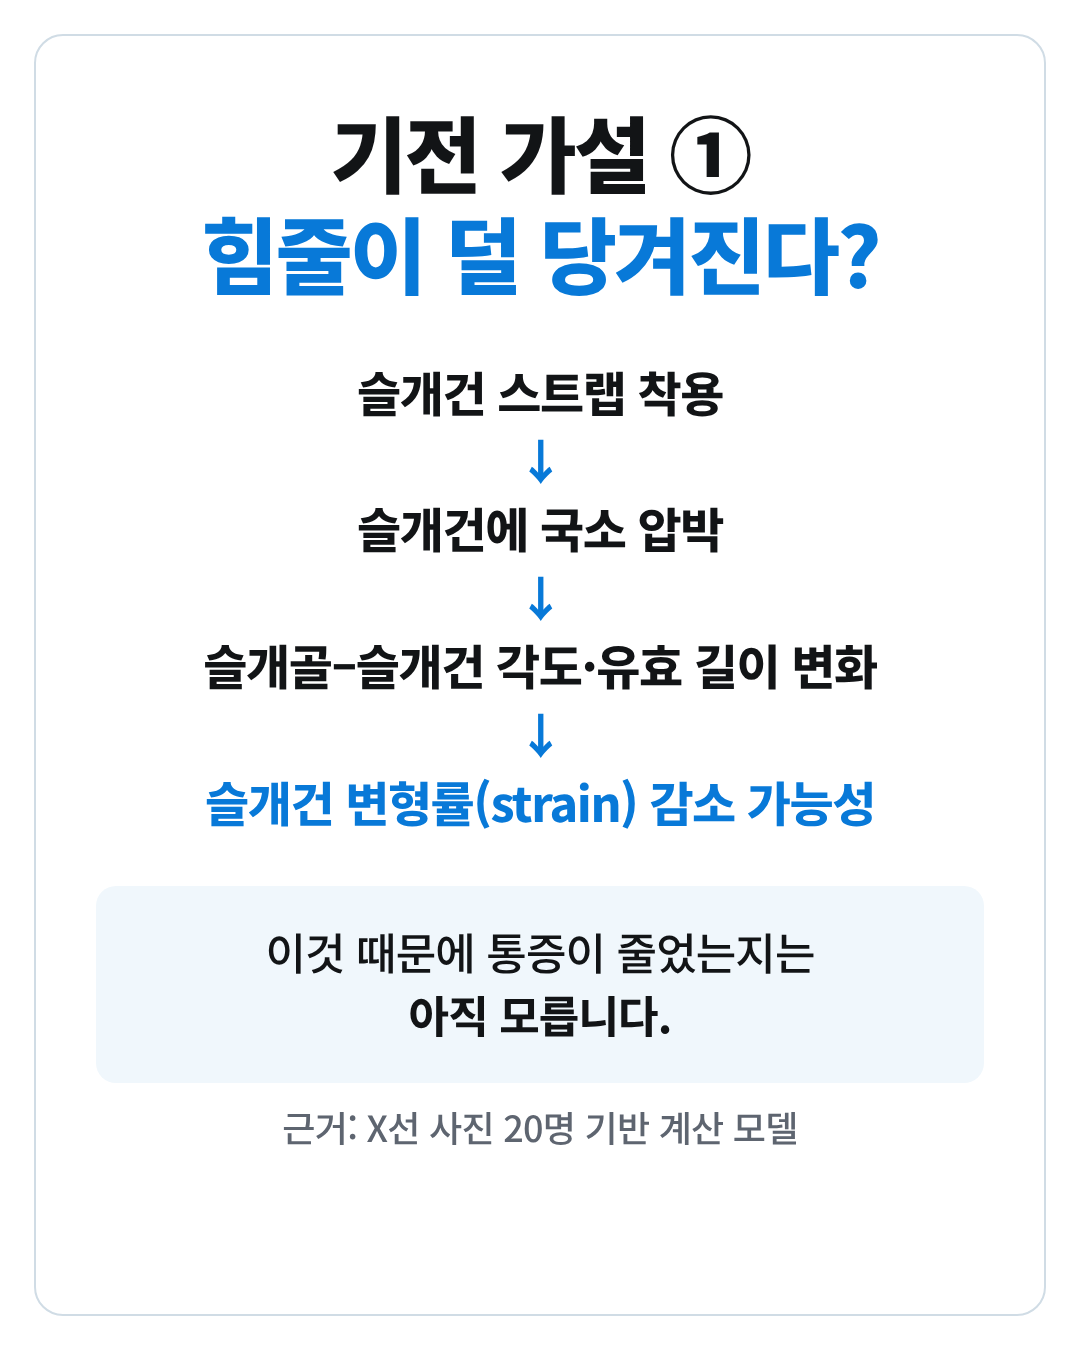
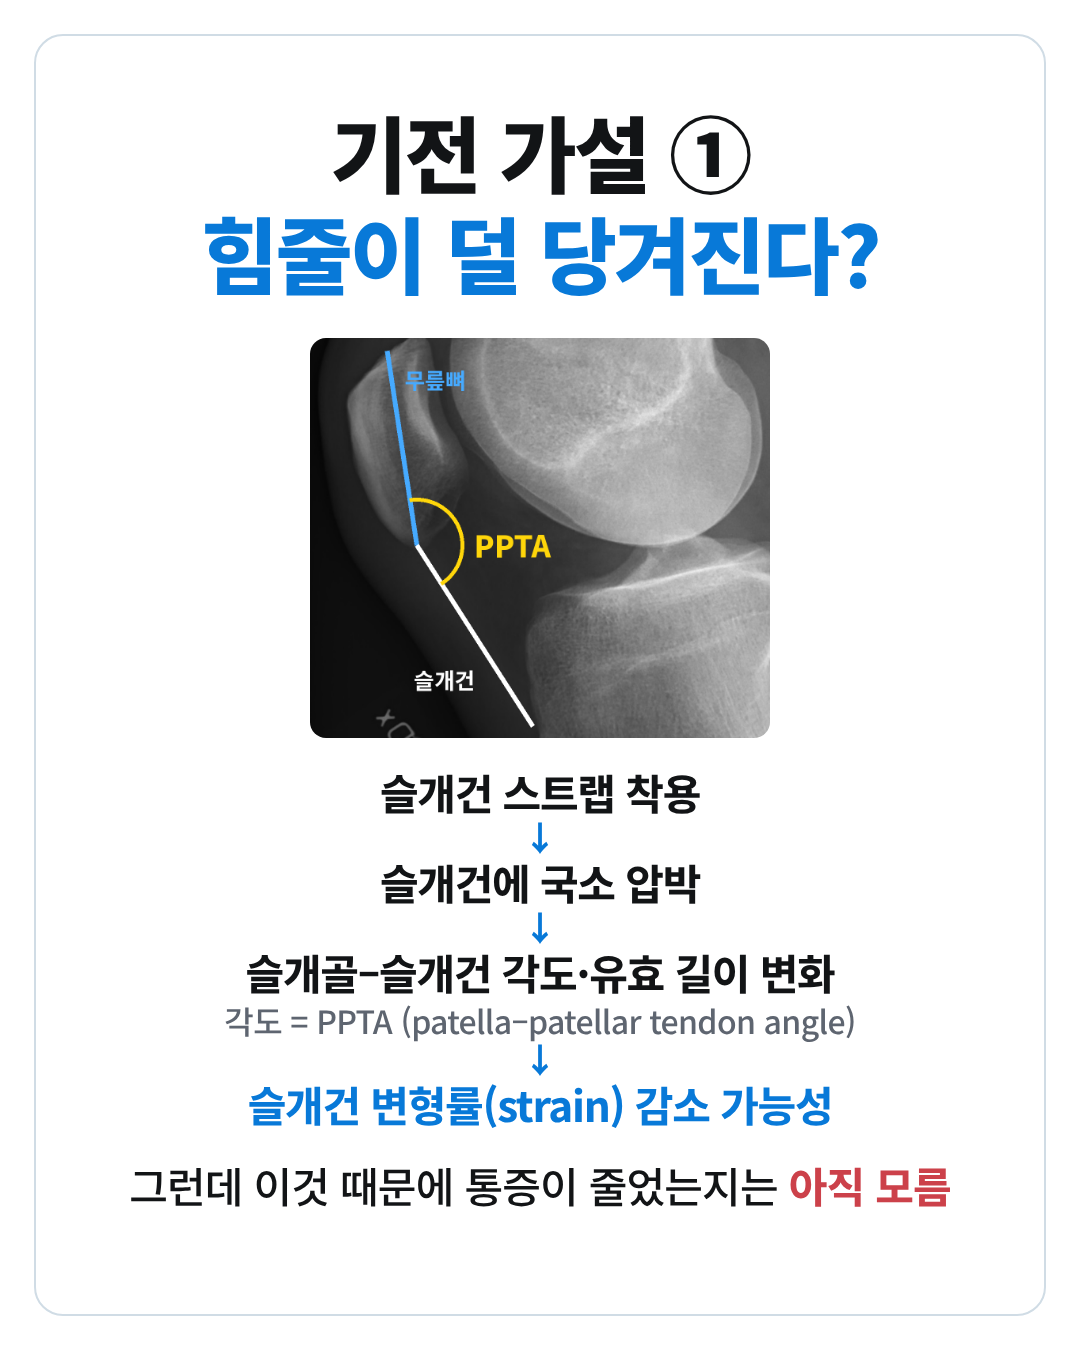
Patellar strap card 04: CC0 lateral knee X-ray with PPTA marked, PPTA note
Claude-Session: https://claude.ai/code/session_01GjYRY9i7LLGWcysU9DHVMw

Changed region(s): [[0.1222, 0.2489, 0.8861, 0.9022]]

diff --git a/content/patellar-strap-runners/source/04.html b/content/patellar-strap-runners/source/04.html
@@ -23,8 +23,11 @@ h1,p{margin:0;text-align:center}
 .slot .guide{font-size:36px;font-weight:500;color:var(--muted);line-height:1.42}
 .list{display:flex;flex-direction:column;align-items:center;gap:40px}
 .pair{display:flex;flex-direction:column;align-items:center;gap:8px}
+
+.flow{font-size:42px;font-weight:750;line-height:1.3;letter-spacing:-.03em}
+.arrow{font-size:34px;font-weight:800;line-height:1.05;color:var(--blue)}
 .box{background:var(--tint);border-radius:20px;padding:32px 40px;width:888px}
-</style></head><body><article class="card kind-mech1"><svg class="card-frame" width="1080" height="1350" viewBox="0 0 1080 1350" aria-hidden="true"><rect x="35" y="35" width="1010" height="1280" rx="28" fill="none" stroke="#D0DCE5" stroke-width="2"/></svg><h1 class="headline">기전 가설 ①<br><span class="accent">힘줄이 덜 당겨진다?</span></h1><div style="height:56px;flex:none"></div><div class="list" style="gap:6px"><p class="item">슬개건 스트랩 착용</p><p class="item accent">↓</p><p class="item">슬개건에 국소 압박</p><p class="item accent">↓</p><p class="item">슬개골–슬개건 각도·유효 길이 변화</p><p class="item accent">↓</p><p class="item accent">슬개건 변형률(strain) 감소 가능성</p></div><div style="height:52px;flex:none"></div><div class="box" style="padding:36px 40px"><p class="body">이것 때문에 통증이 줄었는지는<br><span class="strong">아직 모릅니다.</span></p></div><div style="height:20px;flex:none"></div><p class="note">근거: X선 사진 20명 기반 계산 모델</p></article><script>// ?qa 로 열 때만 실행: contentBottom(실제 마지막 텍스트 줄/이미지), 안전영역, 넘침, 정렬, 폰트 크기를 기록한다.
+</style></head><body><article class="card kind-mech1"><svg class="card-frame" width="1080" height="1350" viewBox="0 0 1080 1350" aria-hidden="true"><rect x="35" y="35" width="1010" height="1280" rx="28" fill="none" stroke="#D0DCE5" stroke-width="2"/></svg><h1 class="headline">기전 가설 ①<br><span class="accent">힘줄이 덜 당겨진다?</span></h1><div style="height:32px;flex:none"></div><div class="photo" style="width:460px;height:400px;border-radius:16px"><img src="../assets/photos/xray-knee-lateral_Haggstrom_cc0_ppta.png" alt="무릎 옆모습 X선, 무릎뼈 축과 슬개건 사이 각도(PPTA) 표시" style="width:460px;left:0;top:0"></div><div style="height:28px;flex:none"></div><div class="list" style="gap:0"><p class="flow">슬개건 스트랩 착용</p><p class="arrow">↓</p><p class="flow">슬개건에 국소 압박</p><p class="arrow">↓</p><p class="flow">슬개골–슬개건 각도·유효 길이 변화</p><p class="note" style="font-size:32px;line-height:1.3">각도 = PPTA (patella–patellar tendon angle)</p><p class="arrow">↓</p><p class="flow accent">슬개건 변형률(strain) 감소 가능성</p></div><div style="height:24px;flex:none"></div><p class="body" style="font-size:42px">그런데 이것 때문에 통증이 줄었는지는 <span class="strong warn">아직 모름</span></p></article><script>// ?qa 로 열 때만 실행: contentBottom(실제 마지막 텍스트 줄/이미지), 안전영역, 넘침, 정렬, 폰트 크기를 기록한다.
 if (location.search.includes('qa')) (async () => {
   await document.fonts.ready;
   await Promise.all([...document.images].map(i => i.decode().catch(() => {})));

diff --git a/content/patellar-strap-runners/source/03.html b/content/patellar-strap-runners/source/03.html
@@ -23,6 +23,9 @@ h1,p{margin:0;text-align:center}
 .slot .guide{font-size:36px;font-weight:500;color:var(--muted);line-height:1.42}
 .list{display:flex;flex-direction:column;align-items:center;gap:40px}
 .pair{display:flex;flex-direction:column;align-items:center;gap:8px}
+
+.flow{font-size:42px;font-weight:750;line-height:1.3;letter-spacing:-.03em}
+.arrow{font-size:34px;font-weight:800;line-height:1.05;color:var(--blue)}
 .box{background:var(--tint);border-radius:20px;padding:32px 40px;width:888px}
 </style></head><body><article class="card kind-effect"><svg class="card-frame" width="1080" height="1350" viewBox="0 0 1080 1350" aria-hidden="true"><rect x="35" y="35" width="1010" height="1280" rx="28" fill="none" stroke="#D0DCE5" stroke-width="2"/></svg><h1 class="headline">진짜 스트랩 vs<br><span class="accent">가짜 테이프</span><br>실험해 봤습니다</h1><div style="height:36px;flex:none"></div><p class="body">운동선수 97명 · 한 다리 경사 스쿼트</p><div style="height:12px;flex:none"></div><div class="photo" style="height:400px"><img src="../assets/charts/vas.png" alt="0~100mm 통증 척도에서 14mm 감소를 나타낸 화살표" style="width:888px;left:0;top:0"></div><p class="note">스트랩을 찼을 때 줄어든 폭 (화살표 길이만 실제 비율)</p><div style="height:32px;flex:none"></div><div class="box" style="padding:30px 40px;display:flex;flex-direction:column;gap:10px"><p class="item">결과 ① <span class="accent">둘 다</span> 통증이 줄었고</p><p class="item">결과 ② 둘 사이 <span class="accent">큰 차이는 없었습니다</span></p></div></article><script>// ?qa 로 열 때만 실행: contentBottom(실제 마지막 텍스트 줄/이미지), 안전영역, 넘침, 정렬, 폰트 크기를 기록한다.
 if (location.search.includes('qa')) (async () => {

diff --git a/content/patellar-strap-runners/source/05.html b/content/patellar-strap-runners/source/05.html
@@ -23,6 +23,9 @@ h1,p{margin:0;text-align:center}
 .slot .guide{font-size:36px;font-weight:500;color:var(--muted);line-height:1.42}
 .list{display:flex;flex-direction:column;align-items:center;gap:40px}
 .pair{display:flex;flex-direction:column;align-items:center;gap:8px}
+
+.flow{font-size:42px;font-weight:750;line-height:1.3;letter-spacing:-.03em}
+.arrow{font-size:34px;font-weight:800;line-height:1.05;color:var(--blue)}
 .box{background:var(--tint);border-radius:20px;padding:32px 40px;width:888px}
 </style></head><body><article class="card kind-mech2"><svg class="card-frame" width="1080" height="1350" viewBox="0 0 1080 1350" aria-hidden="true"><rect x="35" y="35" width="1010" height="1280" rx="28" fill="none" stroke="#D0DCE5" stroke-width="2"/></svg><h1 class="headline">부딪힌 팔꿈치를<br><span class="accent">문지르면</span> 덜 아픈 것처럼</h1><div style="height:130px;flex:none"></div><p class="key" style="font-weight:750">피부를 누르는 감각이<br><span class="accent">통증 신호를 덮을 수</span> 있습니다</p><div style="height:88px;flex:none"></div><p class="key" style="font-weight:750">여기에 <span class="accent">‘차면 덜 아파’</span><br>기대도 더해집니다</p><div style="height:130px;flex:none"></div><div class="box" style="padding:44px 40px"><p class="note" style="color:var(--ink);font-size:38px">가짜 테이프 결과로 추정한 가능성입니다.<br>실제로 잰 감각은 ‘무릎 위치 감각’ 하나,<br>원래 감각이 떨어진 선수에서만 좋아졌습니다.</p></div></article><script>// ?qa 로 열 때만 실행: contentBottom(실제 마지막 텍스트 줄/이미지), 안전영역, 넘침, 정렬, 폰트 크기를 기록한다.
 if (location.search.includes('qa')) (async () => {

diff --git a/content/patellar-strap-runners/source/06.html b/content/patellar-strap-runners/source/06.html
@@ -23,6 +23,9 @@ h1,p{margin:0;text-align:center}
 .slot .guide{font-size:36px;font-weight:500;color:var(--muted);line-height:1.42}
 .list{display:flex;flex-direction:column;align-items:center;gap:40px}
 .pair{display:flex;flex-direction:column;align-items:center;gap:8px}
+
+.flow{font-size:42px;font-weight:750;line-height:1.3;letter-spacing:-.03em}
+.arrow{font-size:34px;font-weight:800;line-height:1.05;color:var(--blue)}
 .box{background:var(--tint);border-radius:20px;padding:32px 40px;width:888px}
 </style></head><body><article class="card kind-who"><svg class="card-frame" width="1080" height="1350" viewBox="0 0 1080 1350" aria-hidden="true"><rect x="35" y="35" width="1010" height="1280" rx="28" fill="none" stroke="#D0DCE5" stroke-width="2"/></svg><h1 class="headline"><span class="accent">슬개건병증</span>,<br>여기가 아프다면</h1><div style="height:40px;flex:none"></div><div class="photo" style="height:560px"><img src="../assets/photos/knee-downhill_Memphre_ccbysa30_marked.png" alt="내리막을 걷는 사람의 무릎, 무릎뼈 바로 아래에 빨간 원 표시" style="width:888px;left:0;top:0"></div><div style="height:40px;flex:none"></div><p class="body">점프·착지·내리막에서 아픈 자리.<br>스트랩을 차면 <span class="strong">단기 통증 감소</span>가 보고됐습니다.</p><div style="height:20px;flex:none"></div><p class="note">무릎뼈 주변·뒤가 아픈 슬개대퇴통증에는<br>가이드라인이 스트랩을 권하지 않습니다</p></article><script>// ?qa 로 열 때만 실행: contentBottom(실제 마지막 텍스트 줄/이미지), 안전영역, 넘침, 정렬, 폰트 크기를 기록한다.
 if (location.search.includes('qa')) (async () => {

diff --git a/content/patellar-strap-runners/source/07.html b/content/patellar-strap-runners/source/07.html
@@ -23,6 +23,9 @@ h1,p{margin:0;text-align:center}
 .slot .guide{font-size:36px;font-weight:500;color:var(--muted);line-height:1.42}
 .list{display:flex;flex-direction:column;align-items:center;gap:40px}
 .pair{display:flex;flex-direction:column;align-items:center;gap:8px}
+
+.flow{font-size:42px;font-weight:750;line-height:1.3;letter-spacing:-.03em}
+.arrow{font-size:34px;font-weight:800;line-height:1.05;color:var(--blue)}
 .box{background:var(--tint);border-radius:20px;padding:32px 40px;width:888px}
 </style></head><body><article class="card kind-exercise"><svg class="card-frame" width="1080" height="1350" viewBox="0 0 1080 1350" aria-hidden="true"><rect x="35" y="35" width="1010" height="1280" rx="28" fill="none" stroke="#D0DCE5" stroke-width="2"/></svg><h1 class="headline">힘줄은<br><span class="accent">쓰면서</span> 튼튼해집니다</h1><div style="height:48px;flex:none"></div><div class="photo" style="height:600px"><img src="../assets/photos/mini-squat_BaoBaoLeung_ccbysa40.jpg" alt="무릎을 살짝 굽힌 미니 스쿼트 옆모습" style="width:900px;left:-6px;top:0px"></div><div style="height:48px;flex:none"></div><p class="body">무게를 조금씩 올린 힘줄 운동 24주,<br>기능 점수 <span class="strong accent">+28점</span> (기존 운동 +18점)</p><div style="height:20px;flex:none"></div><p class="note">무릎뼈 주변 통증 → 엉덩이 + 허벅지 근력 운동을 함께</p></article><script>// ?qa 로 열 때만 실행: contentBottom(실제 마지막 텍스트 줄/이미지), 안전영역, 넘침, 정렬, 폰트 크기를 기록한다.
 if (location.search.includes('qa')) (async () => {

diff --git a/content/patellar-strap-runners/source/02.html b/content/patellar-strap-runners/source/02.html
@@ -23,6 +23,9 @@ h1,p{margin:0;text-align:center}
 .slot .guide{font-size:36px;font-weight:500;color:var(--muted);line-height:1.42}
 .list{display:flex;flex-direction:column;align-items:center;gap:40px}
 .pair{display:flex;flex-direction:column;align-items:center;gap:8px}
+
+.flow{font-size:42px;font-weight:750;line-height:1.3;letter-spacing:-.03em}
+.arrow{font-size:34px;font-weight:800;line-height:1.05;color:var(--blue)}
 .box{background:var(--tint);border-radius:20px;padding:32px 40px;width:888px}
 </style></head><body><article class="card kind-what"><svg class="card-frame" width="1080" height="1350" viewBox="0 0 1080 1350" aria-hidden="true"><rect x="35" y="35" width="1010" height="1280" rx="28" fill="none" stroke="#D0DCE5" stroke-width="2"/></svg><h1 class="headline">무릎뼈 <span class="accent">바로 아래</span>를<br>꾹 누르는 띠</h1><div style="height:40px;flex:none"></div><div class="slot" style="height:580px"><p class="tag">사진 넣는 자리</p><p class="guide">스트랩을 찬 무릎 · 정면 또는 옆모습<br>띠가 무릎뼈 바로 아래 힘줄 위를 지나게</p></div><div style="height:44px;flex:none"></div><p class="body">무릎뼈와 정강이를 잇는 <span class="strong">힘줄</span> 위를<br>지나갑니다. 점프·착지에서 이 힘줄이<br>아픈 ‘점퍼 무릎’에서 주로 연구됐습니다.</p></article><script>// ?qa 로 열 때만 실행: contentBottom(실제 마지막 텍스트 줄/이미지), 안전영역, 넘침, 정렬, 폰트 크기를 기록한다.
 if (location.search.includes('qa')) (async () => {

diff --git a/content/patellar-strap-runners/source/01.html b/content/patellar-strap-runners/source/01.html
@@ -23,6 +23,9 @@ h1,p{margin:0;text-align:center}
 .slot .guide{font-size:36px;font-weight:500;color:var(--muted);line-height:1.42}
 .list{display:flex;flex-direction:column;align-items:center;gap:40px}
 .pair{display:flex;flex-direction:column;align-items:center;gap:8px}
+
+.flow{font-size:42px;font-weight:750;line-height:1.3;letter-spacing:-.03em}
+.arrow{font-size:34px;font-weight:800;line-height:1.05;color:var(--blue)}
 .box{background:var(--tint);border-radius:20px;padding:32px 40px;width:888px}
 </style></head><body><article class="card kind-cover"><svg class="card-frame" width="1080" height="1350" viewBox="0 0 1080 1350" aria-hidden="true"><rect x="35" y="35" width="1010" height="1280" rx="28" fill="none" stroke="#D0DCE5" stroke-width="2"/></svg><h1 class="headline">무릎에 <span class="accent">띠 하나</span><br>감았을 뿐인데<br>왜 덜 아플까요?</h1><div style="height:44px;flex:none"></div><div class="photo" style="height:520px"><img src="../assets/photos/cover-marathon_equinoxefr_ccby20.jpg" alt="도로 마라톤에서 무리 지어 달리는 러너들" style="width:888px;left:0px;top:-300px"></div><div style="height:44px;flex:none"></div><p class="body">효과는 진짜입니다.<br>다만 <span class="strong">이유가 생각과 다릅니다.</span></p></article><script>// ?qa 로 열 때만 실행: contentBottom(실제 마지막 텍스트 줄/이미지), 안전영역, 넘침, 정렬, 폰트 크기를 기록한다.
 if (location.search.includes('qa')) (async () => {

diff --git a/content/patellar-strap-runners/source/build.py b/content/patellar-strap-runners/source/build.py
@@ -33,6 +33,9 @@ h1,p{{margin:0;text-align:center}}
 .slot .guide{{font-size:36px;font-weight:500;color:var(--muted);line-height:1.42}}
 .list{{display:flex;flex-direction:column;align-items:center;gap:40px}}
 .pair{{display:flex;flex-direction:column;align-items:center;gap:8px}}
+
+.flow{{font-size:42px;font-weight:750;line-height:1.3;letter-spacing:-.03em}}
+.arrow{{font-size:34px;font-weight:800;line-height:1.05;color:var(--blue)}}
 .box{{background:var(--tint);border-radius:20px;padding:32px 40px;width:888px}}
 """
 FRAME = ('<svg class="card-frame" width="1080" height="1350" viewBox="0 0 1080 1350" aria-hidden="true">'
@@ -75,16 +78,17 @@ CARDS = [
         '<div class="box" style="padding:30px 40px;display:flex;flex-direction:column;gap:10px">'
         '<p class="item">결과 ① <span class="accent">둘 다</span> 통증이 줄었고</p>'
         '<p class="item">결과 ② 둘 사이 <span class="accent">큰 차이는 없었습니다</span></p></div>']),
-    # 04 기전 가설 ① 흐름
+    # 04 기전 가설 ① 흐름 + X선
     ('kind-mech1', [
-        '<h1 class="headline">기전 가설 ①<br><span class="accent">힘줄이 덜 당겨진다?</span></h1>', gap(56),
-        '<div class="list" style="gap:6px">'
-        '<p class="item">슬개건 스트랩 착용</p><p class="item accent">↓</p>'
-        '<p class="item">슬개건에 국소 압박</p><p class="item accent">↓</p>'
-        '<p class="item">슬개골–슬개건 각도·유효 길이 변화</p><p class="item accent">↓</p>'
-        '<p class="item accent">슬개건 변형률(strain) 감소 가능성</p></div>', gap(52),
-        '<div class="box" style="padding:36px 40px"><p class="body">이것 때문에 통증이 줄었는지는<br><span class="strong">아직 모릅니다.</span></p></div>', gap(20),
-        '<p class="note">근거: X선 사진 20명 기반 계산 모델</p>']),
+        '<h1 class="headline">기전 가설 ①<br><span class="accent">힘줄이 덜 당겨진다?</span></h1>', gap(32),
+        '<div class="photo" style="width:460px;height:400px;border-radius:16px"><img src="../assets/photos/xray-knee-lateral_Haggstrom_cc0_ppta.png" alt="무릎 옆모습 X선, 무릎뼈 축과 슬개건 사이 각도(PPTA) 표시" style="width:460px;left:0;top:0"></div>', gap(28),
+        '<div class="list" style="gap:0">'
+        '<p class="flow">슬개건 스트랩 착용</p><p class="arrow">↓</p>'
+        '<p class="flow">슬개건에 국소 압박</p><p class="arrow">↓</p>'
+        '<p class="flow">슬개골–슬개건 각도·유효 길이 변화</p>'
+        '<p class="note" style="font-size:32px;line-height:1.3">각도 = PPTA (patella–patellar tendon angle)</p><p class="arrow">↓</p>'
+        '<p class="flow accent">슬개건 변형률(strain) 감소 가능성</p></div>', gap(24),
+        '<p class="body" style="font-size:42px">그런데 이것 때문에 통증이 줄었는지는 <span class="strong warn">아직 모름</span></p>']),
     # 05 이유 ② 감각과 기대
     ('kind-mech2', [
         '<h1 class="headline">부딪힌 팔꿈치를<br><span class="accent">문지르면</span> 덜 아픈 것처럼</h1>', gap(130),

diff --git a/content/patellar-strap-runners/assets/asset_manifest.md b/content/patellar-strap-runners/assets/asset_manifest.md
@@ -7,6 +7,7 @@
 | photos/cover-marathon_equinoxefr_ccby20.jpg | 01 | equinoxefr | https://www.flickr.com/photos/15900030@N05/4510885523 (“Run !”) | CC BY 2.0 | 2026-10-16 (Openverse 썸네일 프록시, 1024px) | 도로 마라톤 러너 무리. 스트랩 착용자 없음(종아리 압박 슬리브만) → 카드에서 사진 속 인물의 통증·착용을 말하지 않음 |
 | photos/mini-squat_BaoBaoLeung_ccbysa40.jpg | 07 | Bao Bao Leung 0218 | https://commons.wikimedia.org/wiki/File:Mini_squat.jpg | CC BY-SA 4.0 | 2026-10-16 (pfp-runners-part2에서 재사용) | 옆모습 얕은 미니 스쿼트. 무릎 근력 운동 일반 예시. 특정 힘줄 부하 프로그램 시범 아님 |
 | photos/knee-downhill_Memphre_ccbysa30.jpg → _marked.png | 06 | Memphre | https://commons.wikimedia.org/wiki/File:Syndrome_rotulien.jpg | CC BY-SA 3.0 | 2026-10-17 (Wikimedia 960px 썸네일) | 내리막 걷는 사람의 무릎 정면. 크롭 + 무릎뼈 바로 아래(슬개건 부착부 주변)에 빨간 원 표시 추가 → 수정본도 CC BY-SA 3.0. 원 위치는 일반적 통증 부위 안내이며 사진 속 인물의 진단이 아님 |
+| photos/xray-knee-lateral_Haggstrom_cc0.jpg → _ppta.png | 04 | Mikael Häggström | https://commons.wikimedia.org/wiki/File:X-ray_of_a_normal_knee_by_lateral_projection.jpg | CC0 | 2026-10-17 (원본 1133×1939) | 정상 무릎 옆모습 X선(굽힌 자세). 크롭 + 무릎뼈 장축(파랑)·슬개건(흰색) 선과 PPTA 각도 호(노랑)·라벨 표시 추가. 선 위치는 육안 추정이며 측정값 아님. Lavagnino 2011도 옆 X선에서 PPTA를 잼 |
 | (사진 자리) | 02 | 사용자 촬영 예정 | — | — | — | 스트랩을 찬 무릎 정면/옆모습, 띠가 무릎뼈 바로 아래 힘줄 위 |
 
 ## 찾았지만 쓰지 않은 것
